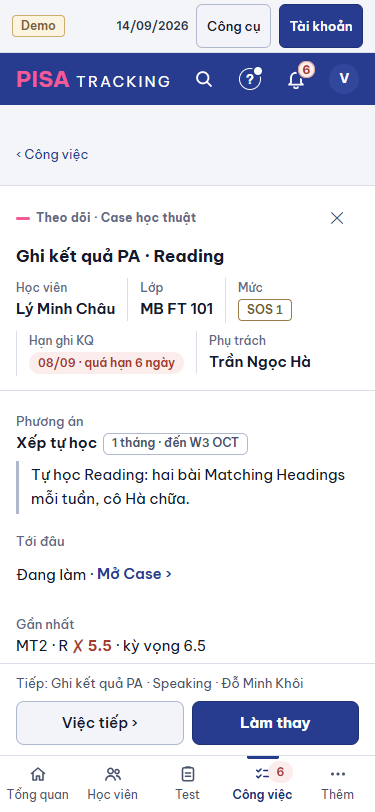
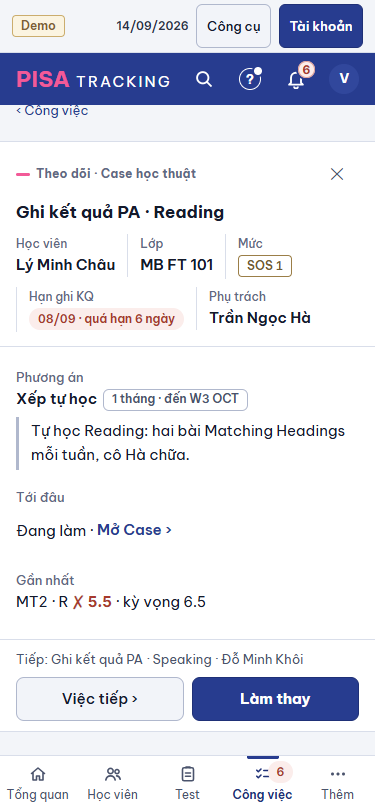
S4-LUAT rà #1880: dải làm thay ở đầu panel (KhungPanel daiLamThay, 1440 ngoài vùng cuộn, 375 dính) — luôn thấy; ảnh sau chụp lại

Changed region(s): [[0.0293, 0.1847, 0.968, 0.9236], [0.0587, 0.1232, 0.2347, 0.1539], [0.88, 0.1847, 0.9093, 0.2771]]

diff --git a/web/src/ui/KhungPanel.tsx b/web/src/ui/KhungPanel.tsx
@@ -150,6 +150,8 @@ export const KhungTrongThe = createContext(false);
 /** V5 UI-CONG-VIEC: trang Công việc nói panel việc đang mở thuộc nhóm nào ("VIỆC · CASE HỌC THUẬT" / "THEO DÕI · …") + dòng "Em này còn" dưới đầu. */
 /** M6 6b-3 `dai`: dải "✓ Đã lưu … · Hoàn tác" của việc vừa làm — đầu thân panel của việc kế (mockup panel-pilot ②b). */
 export const DauViecCongViec = createContext<{ loai: string; them?: ReactNode; dai?: ReactNode;
+  /** N56 ① (PTA rà #1880): dải "Bạn đang làm thay … · Chỉ xem" — LUÔN thấy: ngay dưới đầu panel, ngoài vùng cuộn (1440), dính đầu vùng nhìn (375). */
+  daiLamThay?: ReactNode;
   /** UI-CONG-VIEC (khung A3): đang làm thay — dải sự kiện thêm "Phụ trách {tên}". */
   nguoiLam?: string | null } | null>(null);
 /** UI-CONG-VIEC (mockup `.truong > .nhan` 15 / 700): panel việc ở Công việc — nhãn ô nhập đậm, sáng; nơi khác giữ nhãn nhỏ. */
@@ -438,6 +440,9 @@ export function KhungPanel({ tieuDe: tieuDeGoc, hocVien, lop, rong: rongRieng, t
           {!lui && <span className="flex shrink-0 max-sm:self-start">{nutDong}</span>}
           {cvNgoai?.them && <div className="w-full pb-1">{cvNgoai.them}</div>}
         </header>
+        )}
+        {cvNgoai?.daiLamThay && (
+          <div className="shrink-0 px-4 pt-2.5 max-sm:sticky max-sm:-top-4 max-sm:z-20 max-sm:pb-1" style={{ background: 'var(--surface)' }}>{cvNgoai.daiLamThay}</div>
         )}
         {tabs && <div className="shrink-0 border-b px-4" style={{ borderColor: 'var(--line)' }}>{tabs}</div>}
         {/* PR-KHUNG: pb-2 — thân cuộn bắt đầu cách dòng ngữ cảnh; không có thì ô bị cắt ngay sát chữ, trông như đè nhãn (rà LUI-a1, 375). */}

diff --git a/web/src/modules/congViec/HoTroHocVienTab.tsx b/web/src/modules/congViec/HoTroHocVienTab.tsx
@@ -486,10 +486,9 @@ export function HoTroHocVienTab() {
     : dich(laTvv ? NHOM_CV_TVV_LABEL[nhomViecTvvCua(chon.group)] : NHOM_VIEC_LABEL[nhomViecCua(chon.group)])) : '';
   const dauPanel = chon ? {
     loai: `${dangLamThay ? t('Làm thay') : theoDoiChon ? t('Theo dõi') : t('Việc')} · ${nhanNhom}`, nguoiLam: theoDoiChon ? chon.owner : null,
-    dai: noiDai === 'viec' && daiVuaLuu || dangLamThay ? <>
-      {dangLamThay && <DaiLamThay ai={chon.owner ?? t('người phụ trách')} onThoi={moThang ? null : () => boChuRoi(() => setChiXem(chon.key))} />}
-      {noiDai === 'viec' ? daiVuaLuu : null}
-    </> : undefined,
+    dai: noiDai === 'viec' && daiVuaLuu ? daiVuaLuu : undefined,
+    /* PTA rà #1880: dải làm thay ở đầu panel (KhungPanel `daiLamThay`), không trong vùng cuộn — luôn thấy trước khi lưu. */
+    daiLamThay: dangLamThay ? <DaiLamThay ai={chon.owner ?? t('người phụ trách')} onThoi={moThang ? null : () => boChuRoi(() => setChiXem(chon.key))} /> : undefined,
     them: emNayCon.length ? (
       <div className="mt-1 flex flex-wrap items-center gap-1.5 text-[13px] text-slate-400">
         <span>{t('Em này còn:')}</span>

diff --git a/server/src/tests/prS4LamThay.tests.ts b/server/src/tests/prS4LamThay.tests.ts
@@ -50,5 +50,9 @@ export async function runPrS4LamThayTests(t: any) {
     assert(/const khoaPanel = theoDoiChon && !moThang && \(!coLamThay \|\| chiXem === chon\?\.key\);/.test(s), 'khoaPanel');
     assert(/const dangLamThay = theoDoiChon && coLamThay && \(moThang \|\| chiXem !== chon\?\.key\);/.test(s), 'dangLamThay');
     assert(s.includes('onThoi={moThang ? null : () => boChuRoi(() => setChiXem(chon.key))}') && s.includes('onLamThay={() => setChiXem(null)}'), 'Chỉ xem ↔ Làm thay');
+    /* PTA rà #1880: dải làm thay ở đầu panel (ngoài vùng cuộn, 375 dính) — không nằm trong `dai` (đầu thân cuộn). */
+    const kp = fs.readFileSync('web/src/ui/KhungPanel.tsx', 'utf8');
+    assert(s.includes('daiLamThay: dangLamThay ? <DaiLamThay') && !/dai: [^\n]*DaiLamThay/.test(s), 'HoTroHocVienTab: dải qua daiLamThay');
+    assert(/cvNgoai\?\.daiLamThay && \([\s\S]{0,40}<div className="shrink-0 [^"]*max-sm:sticky max-sm:-top-4/.test(kp) && kp.indexOf('cvNgoai?.daiLamThay &&') < kp.indexOf('{tabs && <div'), 'KhungPanel: dải ngoài vùng cuộn, trước thân');
   });
 }

diff --git a/docs/anh/s4-luat/khop-khac.md b/docs/anh/s4-luat/khop-khac.md
@@ -7,8 +7,7 @@ việc mẫu "Ghi kết quả PA · Reading" của GV Trần Ngọc Hà (`/cong-
 |---|---|
 | `truoc/n56-1-lam-thay-*` | Trước: mở việc của GV khác → TÓM TẮT chỉ đọc + nút "Làm thay" |
 | `truoc/n56-1-sau-bam-lam-thay-*` | Trước: phải bấm "Làm thay" mới ra form |
-| `sau/n56-1-lam-thay-*` | Sau: mở việc → FORM ngay (dòng loại "Làm thay · Case học thuật") |
-| `sau/n56-1-lam-thay-dai-*` | Sau: đầu thân panel có dải "Bạn đang làm thay Trần Ngọc Hà. · Chỉ xem" |
+| `sau/n56-1-lam-thay-*` | Sau: mở việc → FORM ngay; dải "Bạn đang làm thay Trần Ngọc Hà. · Chỉ xem" ở đầu panel, LUÔN thấy dù panel Case tự cuộn tới form PA (1440: ngoài vùng cuộn; 375: dính đầu vùng nhìn) |
 | `sau/n56-1-chi-xem-*` | Sau: bấm "Chỉ xem" → tóm tắt như cũ, nút "Làm thay" mở lại form |
 
 ## Bảng thao tác TRƯỚC → SAU
@@ -25,6 +24,6 @@ việc mẫu "Ghi kết quả PA · Reading" của GV Trần Ngọc Hà (`/cong-
 
 Không mất thao tác nào. Quyền máy chủ không đổi (máy chủ vẫn kiểm `canXacNhan` từng lần; web chỉ gửi kèm mã đã đồng ý). Nhật ký vẫn ghi người làm thay.
 
-## Ghi nhận (không sửa trong PR này)
-- Panel Case tự cuộn tới form PA đang mở, nên dải "Bạn đang làm thay" nằm trên vùng nhìn (cuộn lên là thấy); dòng loại "Làm thay · …" luôn thấy ở đầu panel.
-  Muốn dải luôn hiện → chuyển `cvNgoai.dai` lên phần đầu cố định của `KhungPanel` (thành phần chung, đổi mọi panel Công việc) — để PTA quyết.
+
+## Rà PTA #1880
+Dải làm thay chuyển từ đầu THÂN panel (vùng cuộn — panel Case tự cuộn tới form nên dải trôi khỏi vùng nhìn) lên ngay dưới đầu panel qua prop chung `daiLamThay` của `KhungPanel` (context `DauViecCongViec`): 1440 ngoài vùng cuộn, 375 `sticky` sát mép trên. Dải "Đã lưu … · Hoàn tác" (`dai`) giữ ở đầu thân như cũ.
